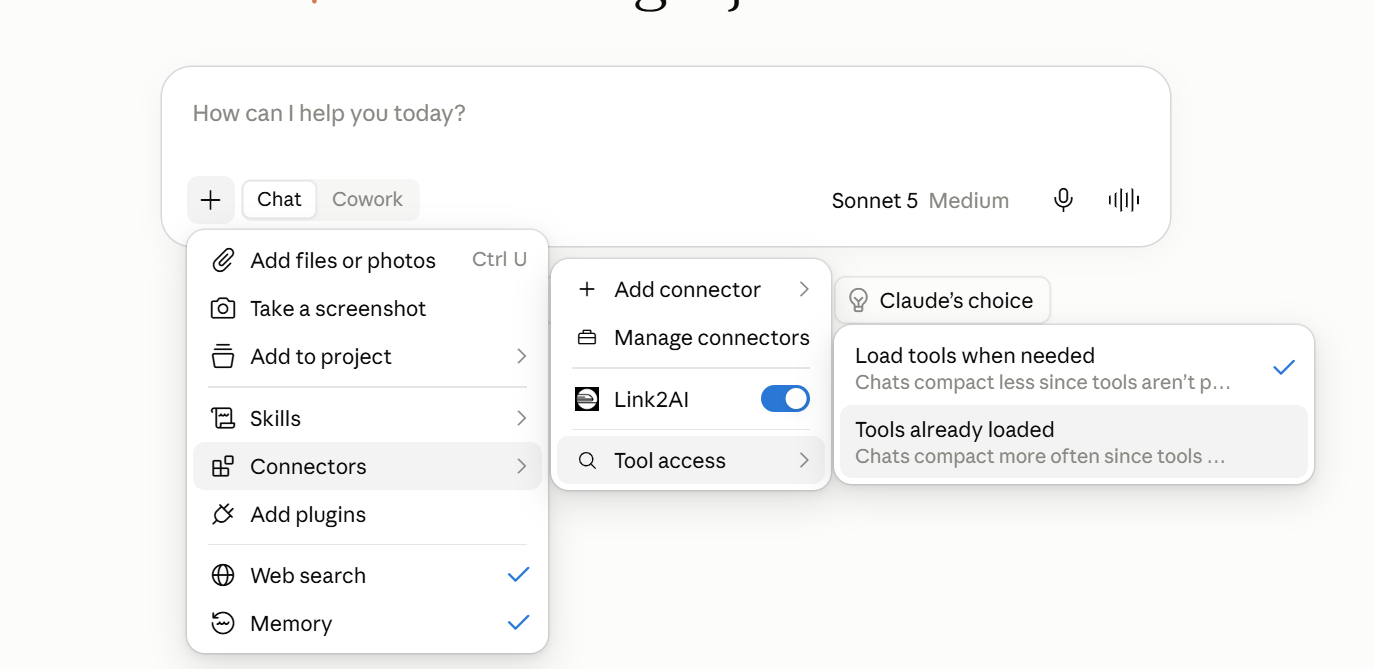
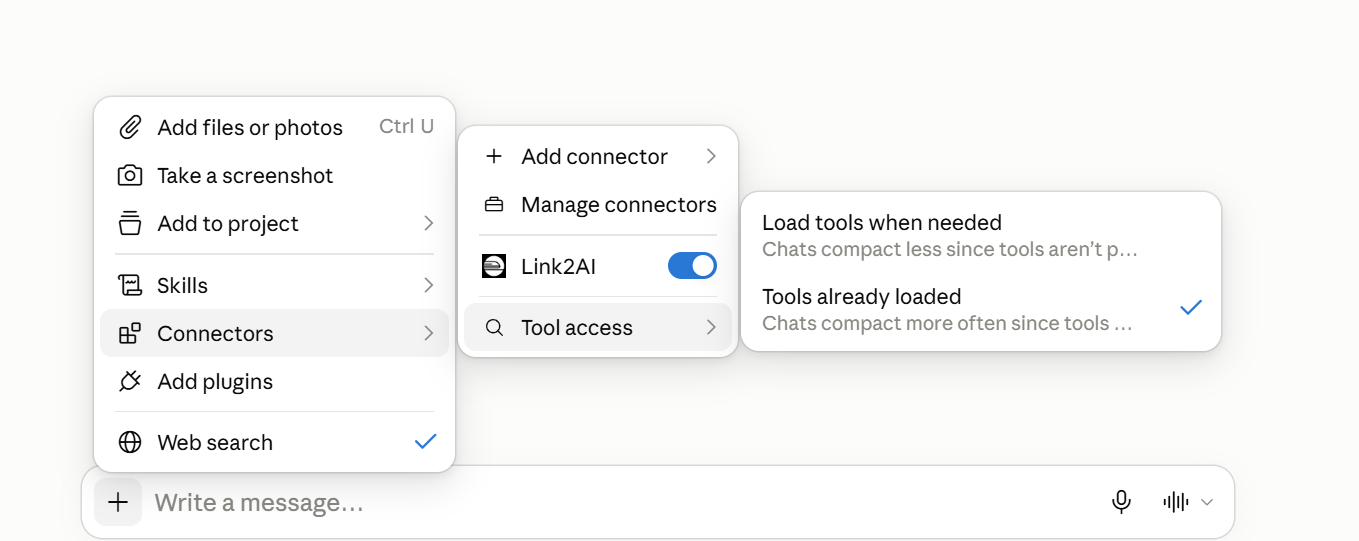
Finalize Claude tool access onboarding and dashboard

diff --git a/src/api/main.ts b/src/api/main.ts
@@ -94,7 +94,7 @@ function siteShell(body:string,title=env().PUBLIC_BRAND_NAME){return `<!doctype 
 
 app.get('/',async(_req,reply)=>reply.type('text/html').send(siteShell(`<main><section class="hero"><div class="hero-grid"><div><span class="badge"><span class="badge-dot"></span>Claude-first founding beta · ChatGPT next</span><h1>Paste the link.<br><em>Claude can read it.</em></h1><p>${env().PUBLIC_BRAND_NAME} gives Claude the spoken and caption content behind supported public YouTube, TikTok and Instagram links when Claude cannot reliably access it on its own.</p><div class="actions"><a class="btn purple" href="/connect">Add ${env().PUBLIC_BRAND_NAME} to Claude →</a><a class="btn alt" href="/#how">See how it works</a></div><div class="micro">3 successful links or 10 minutes free · Email account · No card · Failed processing does not consume completed-job quota</div><div class="platforms"><span class="platform"><b></b>YouTube</span><span class="platform"><b></b>YouTube Shorts</span><span class="platform"><b></b>Instagram Reels</span><span class="platform"><b></b>TikTok</span></div></div><div class="demo"><div class="demo-window"><div class="window-top"><span class="window-dot"></span><span class="window-dot"></span><span class="window-dot"></span><span class="window-title">Claude</span></div><div class="chat"><div class="chat-row user">https://instagram.com/reel/…<br>What is this actually saying?</div><div class="tool-card"><div class="tool-head"><div class="tool-name"><span class="tool-icon">↗</span>Read link content</div><span class="tool-state">ready</span></div><div class="tool-line w82"></div><div class="tool-line w57"></div></div><div class="chat-row ai">The speaker’s main point is that…</div></div></div></div></div></section><section class="section" id="how"><div class="section-head"><div><h2>Your chat stays in Claude.</h2></div><p class="sub">${env().PUBLIC_BRAND_NAME} is not another transcript website. It stays behind the scenes and only steps in when your question actually depends on content Claude cannot already read.</p></div><div class="workflow"><div class="flow-box"><div class="flow-num">1</div><h3>Paste a normal link</h3><p>No special prompt. No upload. Ask the question you wanted to ask anyway.</p></div><div class="flow-arrow">→</div><div class="flow-box"><div class="flow-num">2</div><h3>Claude decides when it needs help</h3><p>If Claude already has enough context, ${env().PUBLIC_BRAND_NAME} stays out of the way.</p></div><div class="flow-arrow">→</div><div class="flow-box"><div class="flow-num">3</div><h3>Claude answers from the content</h3><p>${env().PUBLIC_BRAND_NAME} supplies transcript context; Claude still does the reasoning and response.</p></div></div></section><section class="section"><div class="section-head"><h2>Built for the part that usually breaks.</h2><p class="sub">The value is simple: links that stop the conversation should become usable context without changing how you chat.</p></div><div class="feature-grid"><div class="card"><div class="kicker">Only when needed</div><h3>Not every URL triggers it.</h3><p>The tool description tells Claude to call ${env().PUBLIC_BRAND_NAME} only when the answer depends on content behind a supported public link and Claude does not already have enough access.</p></div><div class="card"><div class="kicker">Caption first · ASR fallback</div><h3>Use the fastest reliable path.</h3><p>When captions are available, use them. When they are not, ${env().PUBLIC_BRAND_NAME} can extract audio and transcribe it.</p></div><div class="card"><div class="kicker">Quota-safe</div><h3>Failures should not burn usage.</h3><p>Usage is finalized only on successful processing. Unsupported, private or failed links do not count as completed jobs.</p></div></div></section><section class="section"><div class="section-head"><h2>Start free. Pay only if it earns a place in your workflow.</h2><p class="sub">The founding beta is intentionally small: prove that the link-reading experience is useful first.</p></div><div class="pricing"><div class="price-card"><div class="price-name">Trial</div><div class="price">$0</div><ul class="list"><li>3 successful links</li><li>or 10 minutes of content</li><li>No card required</li></ul></div><div class="price-card featured"><span class="price-badge">Most useful</span><div class="price-name">Basic</div><div class="price">$4.99 <small>/ month</small></div><ul class="list"><li>500 content minutes / month</li><li>Up to 30 minutes per link</li><li>2 concurrent jobs</li></ul></div><div class="price-card"><div class="price-name">Pro</div><div class="price">$9.99 <small>/ month</small></div><ul class="list"><li>2,000 content minutes / month</li><li>Up to 120 minutes per link</li><li>4 concurrent jobs</li></ul></div></div></section><section class="section"><div class="section-head"><h2>Questions people should not have to guess.</h2></div><div class="faq"><div class="card"><h3>Does ${env().PUBLIC_BRAND_NAME} run on every link?</h3><p>No. Claude should use it only when your request depends on content behind a supported link that Claude cannot already access sufficiently.</p></div><div class="card"><h3>Does ${env().PUBLIC_BRAND_NAME} answer the question?</h3><p>No. It supplies AI-readable source context. Claude remains the interface and produces the answer.</p></div><div class="card"><h3>What links are supported?</h3><p>V1 focuses on supported public YouTube, YouTube Shorts, TikTok and Instagram Reel links. Private, deleted, login-only, paid/DRM or restricted content may fail.</p></div><div class="card"><h3>What about ChatGPT?</h3><p>ChatGPT remains a first-class target, but the founding beta is launching on Claude first so we can test demand and onboarding with real users before widening distribution.</p></div></div><div class="actions" style="margin-top:30px"><a class="btn purple" href="/connect">Add to Claude →</a></div></section></main>`)));
 
-app.get('/connect',async(_req,reply)=>{const install=claudeInstallUrl().replace(/&/g,'&amp;');return reply.type('text/html').send(siteShell(`<main><section class="connect-hero"><span class="badge"><span class="badge-dot"></span>Claude-first beta</span><h1>Install once. Then just paste links.</h1><p>You do not need to understand MCP, OAuth, client IDs or API keys. Follow the three screens below and Claude can call ${env().PUBLIC_BRAND_NAME} when it actually needs the content behind a supported link.</p><div class="guide-status"><span>Email account</span><span>No card</span><span>No client secret</span></div></section><section class="setup-shell"><div class="setup-main"><h2>Start with the pre-filled setup.</h2><p>Open Claude on web or desktop. The name and server URL should already be filled in.</p><div class="setup-cta"><a class="btn purple" id="claude-install" href="${install}" target="_blank" rel="noopener">Open Claude setup →</a><span class="setup-note" id="connect-state">Keep this tab open while you finish setup in Claude. When the connection completes, this page will automatically become your usage dashboard.</span></div><div class="guide-grid"><div class="guide-card"><div class="guide-copy"><span class="guide-num">1</span><h3>Confirm Link2AI and press Continue.</h3><p>The warning only means this custom connector came from an external link. Verify the name is <strong>${env().PUBLIC_BRAND_NAME}</strong> and the URL ends in <strong>/mcp</strong>, then continue.</p><span class="tiny-pill">Keep “Sign in now”</span></div><div class="guide-shot"><img src="/guide/claude-add-connector.png" alt="Claude Add custom connector screen with Link2AI pre-filled"></div></div><div class="guide-card reverse"><div class="guide-shot"><img src="/guide/claude-oauth.png" alt="Claude OAuth client options"><span class="guide-callout oauth"></span></div><div class="guide-copy"><span class="guide-num">2</span><h3>Choose “Register automatically”.</h3><p>Under <strong>OAuth client</strong>, choose <strong>Register automatically</strong>, then press <strong>Add</strong>. Do not choose “Use Claude’s published identity” for this beta, and do not enter a client ID or secret.</p><span class="tiny-pill">This is the DCR path</span></div></div><div class="guide-card"><div class="guide-copy"><span class="guide-num">3</span><h3>Sign in to Link2AI and return to Claude.</h3><p>Create or sign in to your <strong>${env().PUBLIC_BRAND_NAME}</strong> account with email and password. The same account keeps your trial, usage and paid plan attached to you across browsers and devices. Claude then finishes the OAuth connection automatically.</p><p class="micro">Trial: 3 successful links or 10 minutes of content, whichever comes first. Failed processing does not count as a completed job.</p></div><div class="guide-shot" style="min-height:280px;display:grid;place-items:center;padding:28px"><div style="max-width:360px;width:100%;background:white;border:1px solid var(--line);border-radius:20px;padding:26px;box-shadow:0 16px 45px rgba(31,26,44,.08)"><span class="badge"><span class="badge-dot"></span>Free founding trial</span><h3 style="font-size:27px;margin:18px 0 9px">One account, then back to Claude.</h3><p style="color:var(--muted);line-height:1.55">Email + password. No card required for the free trial.</p><span class="btn purple" style="width:100%;margin-top:10px">Create account / Sign in</span></div></div></div></div><div class="why-write"><strong>Why Claude may label “Read link content” as a write/delete tool:</strong> starting a read creates a Link2AI processing job and reserves usage quota. It does <strong>not</strong> edit or delete the Instagram, TikTok, YouTube link, your Claude chats, or your files.</div><div class="manual"><details><summary>Optional: make future link reads more hands-off</summary><div class="guide-card reverse" style="margin-top:15px"><div class="guide-shot"><img src="/guide/claude-permissions.png" alt="Claude Link2AI tool permissions"><span class="guide-callout allow"></span></div><div class="guide-copy"><h3>Permission behavior can vary by Claude session.</h3><p>If Claude asks before using <strong>Read link content</strong>, choose <strong>Always allow</strong> if you do not want to approve every link. If Claude does not show a permission popup, you do not need to hunt for one.</p></div></div></details></div><div class="troubleshoot"><h3>If Claude says “I can’t read this video” without calling Link2AI</h3><p>Open <strong>+ → Connectors → Tool access → Tools already loaded</strong> and make sure Link2AI is switched on. This is a troubleshooting step, not something every user should need.</p><div class="guide-shot" style="margin-top:14px"><img src="/guide/claude-tool-access.png" alt="Claude Tool access menu showing Tools already loaded"><span class="guide-callout tools"></span></div></div><div class="manual"><details><summary>If the pre-filled button does not work, use the manual fallback</summary><div class="manual-grid"><div class="field"><label>Name</label><code>${env().PUBLIC_BRAND_NAME}</code></div><div class="field"><label>Remote MCP server URL</label><code id="mcp-address">${env().PUBLIC_BASE_URL}/mcp</code><button class="copybtn" type="button" onclick="navigator.clipboard.writeText('${env().PUBLIC_BASE_URL}/mcp').then(()=>this.textContent='Copied ✓')">Copy URL</button></div></div><p class="micro">Authentication: <strong>Sign in now</strong>. OAuth client: <strong>Register automatically</strong>. Leave client secret blank.</p></details></div></div><div class="coming"><div><strong>Then use Claude normally.</strong><span>Paste a supported public link and ask your real question. You should not need to say “use Link2AI”. Claude decides whether it needs the connector.</span></div><a class="btn alt sm" href="/support">Need help?</a></div><p class="micro" style="margin-top:18px">V1 reads spoken and caption text. Visual-only information such as on-screen text/layout, gestures, diagrams and before/after pairings may not be available yet.</p></section><script>(()=>{const button=document.getElementById('claude-install');const state=document.getElementById('connect-state');let since=Number(sessionStorage.getItem('link2ai_connect_started')||0);let timer=null;const check=async()=>{if(!since)return;try{const response=await fetch('/api/connect/status?since='+encodeURIComponent(String(since)),{cache:'no-store',credentials:'same-origin'});if(!response.ok)return;const data=await response.json();if(data.connected){if(state)state.textContent='Connected. Opening your Link2AI dashboard…';clearInterval(timer);location.replace('/account');return;}if(data.authenticated&&state)state.textContent='Signed in. Finish the last Claude authorization step — this page will switch to your dashboard automatically.';}catch{}};button?.addEventListener('click',()=>{since=Date.now();sessionStorage.setItem('link2ai_connect_started',String(since));if(state)state.textContent='Claude opened in a new tab. Finish setup there; keep this page open and it will switch to your dashboard when connected.';clearInterval(timer);timer=setInterval(check,1500);setTimeout(check,500);});if(since){timer=setInterval(check,1500);check();}})();</script></main>`, `Add ${env().PUBLIC_BRAND_NAME} to Claude`));});
+app.get('/connect',async(_req,reply)=>{const install=claudeInstallUrl().replace(/&/g,'&amp;');return reply.type('text/html').send(siteShell(`<main><section class="connect-hero"><span class="badge"><span class="badge-dot"></span>Claude-first beta</span><h1>Install once. Then just paste links.</h1><p>You do not need to understand MCP, OAuth, client IDs or API keys. Follow the four steps below and Claude can call ${env().PUBLIC_BRAND_NAME} when it actually needs the content behind a supported link.</p><div class="guide-status"><span>Email account</span><span>No card</span><span>No client secret</span></div></section><section class="setup-shell"><div class="setup-main"><h2>Start with the pre-filled setup.</h2><p>Open Claude on web or desktop. The name and server URL should already be filled in.</p><div class="setup-cta"><a class="btn purple" id="claude-install" href="${install}" target="_blank" rel="noopener">Open Claude setup →</a><span class="setup-note" id="connect-state">Keep this tab open while you finish setup in Claude. When the connection completes, this page will automatically become your usage dashboard.</span></div><div class="guide-grid"><div class="guide-card"><div class="guide-copy"><span class="guide-num">1</span><h3>Confirm Link2AI and press Continue.</h3><p>The warning only means this custom connector came from an external link. Verify the name is <strong>${env().PUBLIC_BRAND_NAME}</strong> and the URL ends in <strong>/mcp</strong>, then continue.</p><span class="tiny-pill">Keep “Sign in now”</span></div><div class="guide-shot"><img src="/guide/claude-add-connector.png" alt="Claude Add custom connector screen with Link2AI pre-filled"></div></div><div class="guide-card reverse"><div class="guide-shot"><img src="/guide/claude-oauth.png" alt="Claude OAuth client options"><span class="guide-callout oauth"></span></div><div class="guide-copy"><span class="guide-num">2</span><h3>Choose “Register automatically”.</h3><p>Under <strong>OAuth client</strong>, choose <strong>Register automatically</strong>, then press <strong>Add</strong>. Do not choose “Use Claude’s published identity” for this beta, and do not enter a client ID or secret.</p><span class="tiny-pill">This is the DCR path</span></div></div><div class="guide-card"><div class="guide-copy"><span class="guide-num">3</span><h3>Sign in to Link2AI and return to Claude.</h3><p>Create or sign in to your <strong>${env().PUBLIC_BRAND_NAME}</strong> account with email and password. The same account keeps your trial, usage and paid plan attached to you across browsers and devices. Claude then finishes the OAuth connection automatically.</p><p class="micro">Trial: 3 successful links or 10 minutes of content, whichever comes first. Failed processing does not count as a completed job.</p></div><div class="guide-shot" style="min-height:280px;display:grid;place-items:center;padding:28px"><div style="max-width:360px;width:100%;background:white;border:1px solid var(--line);border-radius:20px;padding:26px;box-shadow:0 16px 45px rgba(31,26,44,.08)"><span class="badge"><span class="badge-dot"></span>Free founding trial</span><h3 style="font-size:27px;margin:18px 0 9px">One account, then back to Claude.</h3><p style="color:var(--muted);line-height:1.55">Email + password. No card required for the free trial.</p><span class="btn purple" style="width:100%;margin-top:10px">Create account / Sign in</span></div></div></div><div class="guide-card reverse"><div class="guide-shot"><img src="/guide/claude-tool-access.png" alt="Claude Tool access menu with Tools already loaded selected"><span class="guide-callout tools"></span></div><div class="guide-copy"><span class="guide-num">4</span><h3>Set Tool access to “Tools already loaded”.</h3><p>Claude currently defaults to <strong>Load tools when needed</strong>. For Link2AI’s normal “paste a link and ask” flow, switch this once: <strong>+ → Connectors → Tool access → Tools already loaded</strong>.</p><p class="micro">This is a Claude setting. Link2AI cannot change it remotely. If you leave the default on, Claude may answer that it cannot read the video without ever loading Link2AI.</p><span class="tiny-pill">Required once for reliable auto-use</span></div></div></div><div class="why-write"><strong>Why Claude may label “Read link content” as a write/delete tool:</strong> starting a read creates a Link2AI processing job and reserves usage quota. It does <strong>not</strong> edit or delete the Instagram, TikTok, YouTube link, your Claude chats, or your files.</div><div class="manual"><details><summary>Optional: make future link reads more hands-off</summary><div class="guide-card reverse" style="margin-top:15px"><div class="guide-shot"><img src="/guide/claude-permissions.png" alt="Claude Link2AI tool permissions"><span class="guide-callout allow"></span></div><div class="guide-copy"><h3>Permission behavior can vary by Claude session.</h3><p>If Claude asks before using <strong>Read link content</strong>, choose <strong>Always allow</strong> if you do not want to approve every link. If Claude does not show a permission popup, you do not need to hunt for one.</p></div></div></details></div><div class="manual"><details><summary>If the pre-filled button does not work, use the manual fallback</summary><div class="manual-grid"><div class="field"><label>Name</label><code>${env().PUBLIC_BRAND_NAME}</code></div><div class="field"><label>Remote MCP server URL</label><code id="mcp-address">${env().PUBLIC_BASE_URL}/mcp</code><button class="copybtn" type="button" onclick="navigator.clipboard.writeText('${env().PUBLIC_BASE_URL}/mcp').then(()=>this.textContent='Copied ✓')">Copy URL</button></div></div><p class="micro">Authentication: <strong>Sign in now</strong>. OAuth client: <strong>Register automatically</strong>. Leave client secret blank.</p></details></div></div><div id="setup-complete" hidden class="coming" style="margin-bottom:16px"><div><strong>Connected ✓ Finish the one-time Tool access setting.</strong><span>In Claude choose <strong>+ → Connectors → Tool access → Tools already loaded</strong>. After that, Link2AI can be available for natural link-only prompts.</span></div><a class="btn purple sm" href="/account">Done → Dashboard</a></div><div class="coming"><div><strong>Then use Claude normally.</strong><span>Paste a supported public link and ask your real question. You should not need to say “use Link2AI”. Claude decides whether it needs the connector.</span></div><a class="btn alt sm" href="/support">Need help?</a></div><p class="micro" style="margin-top:18px">V1 reads spoken and caption text. Visual-only information such as on-screen text/layout, gestures, diagrams and before/after pairings may not be available yet.</p></section><script>(()=>{const button=document.getElementById('claude-install');const state=document.getElementById('connect-state');let since=Number(sessionStorage.getItem('link2ai_connect_started')||0);let timer=null;const check=async()=>{if(!since)return;try{const response=await fetch('/api/connect/status?since='+encodeURIComponent(String(since)),{cache:'no-store',credentials:'same-origin'});if(!response.ok)return;const data=await response.json();if(data.connected){if(state)state.textContent='Connected ✓ One last Claude setting: + → Connectors → Tool access → Tools already loaded. Then open your dashboard.';clearInterval(timer);const done=document.getElementById('setup-complete');if(done)done.hidden=false;return;}if(data.authenticated&&state)state.textContent='Signed in. Finish the last Claude authorization step — this page will switch to your dashboard automatically.';}catch{}};button?.addEventListener('click',()=>{since=Date.now();sessionStorage.setItem('link2ai_connect_started',String(since));if(state)state.textContent='Claude opened in a new tab. Finish setup there; keep this page open and it will switch to your dashboard when connected.';clearInterval(timer);timer=setInterval(check,1500);setTimeout(check,500);});if(since){timer=setInterval(check,1500);check();}})();</script></main>`, `Add ${env().PUBLIC_BRAND_NAME} to Claude`));});
 
 app.get('/api/connect/status',async(req,reply)=>{
   const user=await userFromSessionCookie(req.headers.cookie);

diff --git a/LINK2AI_TOOL_ACCESS_FINAL_20260915.md b/LINK2AI_TOOL_ACCESS_FINAL_20260915.md
@@ -1,0 +1,12 @@
+# Link2AI Tool Access Final — 2026-09-15
+
+This patch is cumulative with the pending dashboard visual polish.
+
+Changes:
+- Makes Claude `Tools already loaded` a required one-time onboarding step instead of an optional troubleshooting step.
+- Uses the current Claude UI screenshot supplied during dogfood.
+- Stops auto-redirecting `/connect` to `/account` immediately after OAuth. Once connected, the page shows the final Tool access instruction and a `Done → Dashboard` button.
+- Explicitly tells users that Claude defaults to `Load tools when needed` and Link2AI cannot remotely change this host-side setting.
+- Includes the pending dashboard visual polish files so only this package needs to be pushed.
+
+No quota, billing, worker, resolver, or subscription logic is changed by the Tool access patch.
